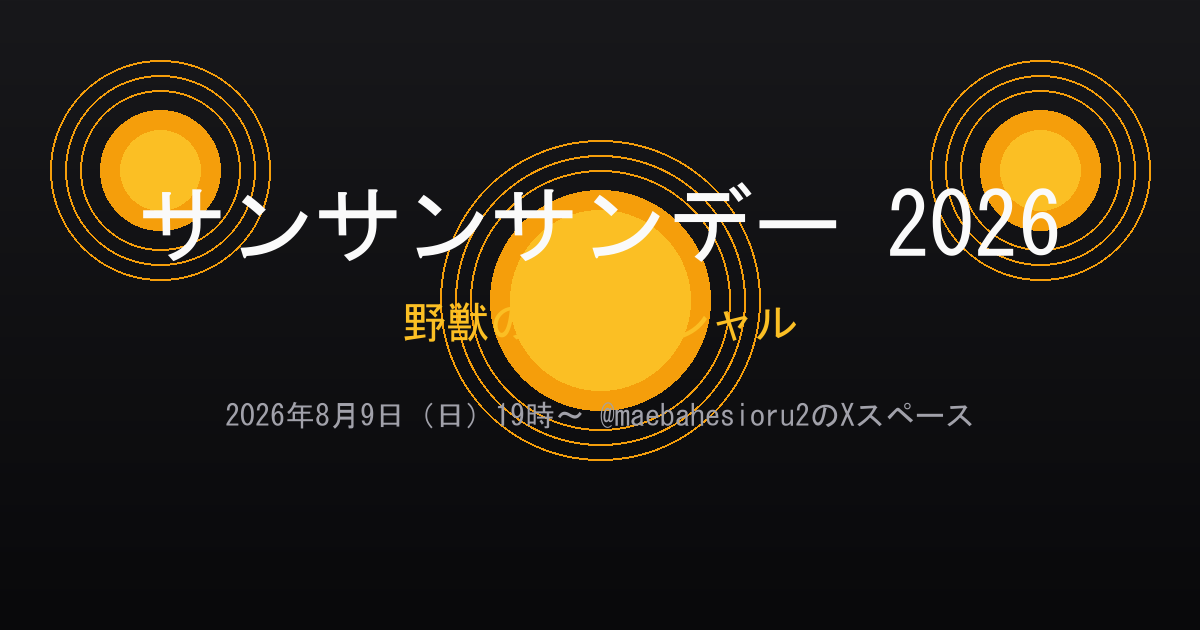
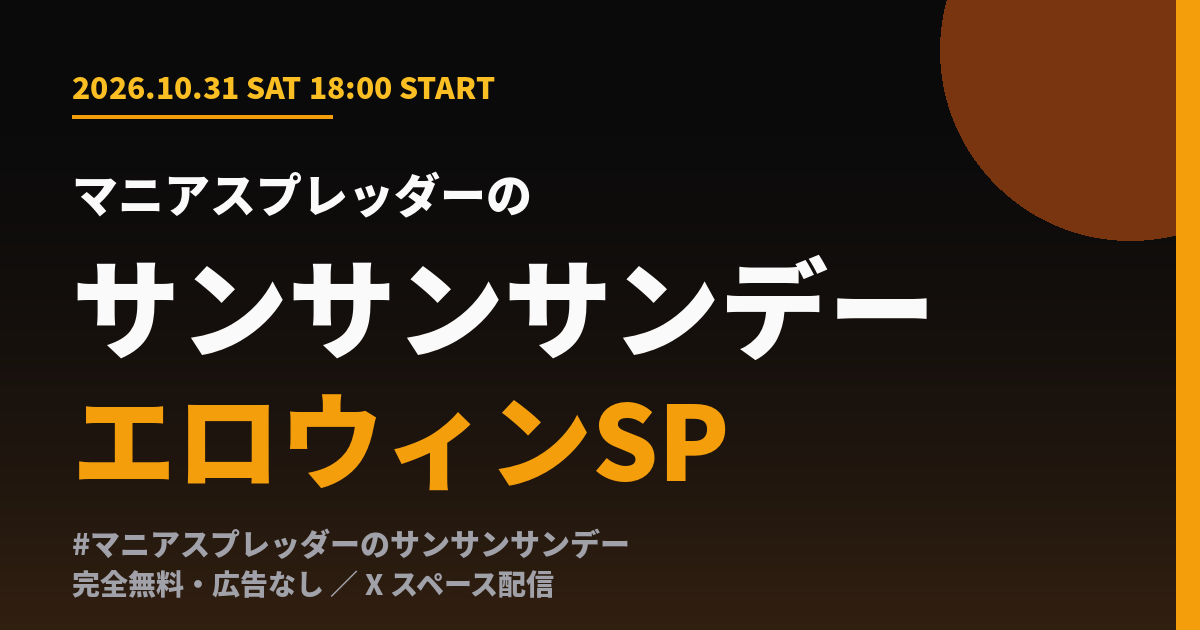
feat: ハロウィンSP(エロウィンSP)版へ更新 — 10/31(土)18:00・フォーム受付・許諾/無料明記

diff --git a/src/app/page.tsx b/src/app/page.tsx
@@ -1,5 +1,3 @@
-import fs from "fs";
-import path from "path";
 import Link from "next/link";
 
 const rules = [
@@ -46,22 +44,14 @@ const history = [
 ];
 
 export default function Home() {
-  // JSON-LD用に総再生時間を取得
-  let totalSec = 0;
-  try {
-    const songsJson = JSON.parse(
-      fs.readFileSync(path.join(process.cwd(), "public", "data", "songs.json"), "utf-8")
-    );
-    totalSec = songsJson.total_sec || 0;
-  } catch {}
-
-  const eventStart = new Date("2026-08-10T19:00:00+09:00");
-  const eventEnd = new Date(eventStart.getTime() + totalSec * 1000);
+  // 開催日時: 2026-10-31(土) 18:00 開始、翌日夜までの長丁場を想定
+  const eventStart = new Date("2026-10-31T18:00:00+09:00");
+  const eventEnd = new Date("2026-11-01T21:00:00+09:00");
 
   const eventJsonLd = {
     "@context": "https://schema.org",
     "@type": "MusicEvent",
-    name: "マニアスプレッダーのサンサンサンデー2026 野獣の日スペシャル",
+    name: "マニアスプレッダーのサンサンサンデー エロウィンSP",
     startDate: eventStart.toISOString(),
     endDate: eventEnd.toISOString(),
     eventAttendanceMode: "https://schema.org/OnlineEventAttendanceMode",
@@ -69,7 +59,7 @@ export default function Home() {
     location: {
       "@type": "VirtualLocation",
       url: "https://x.com/maebahesioru2",
-      name: "@maebahesioru2のXスペース",
+      name: "@okubahesioruのXスペース",
     },
     organizer: {
       "@type": "Person",
@@ -82,7 +72,7 @@ export default function Home() {
       url: "https://x.com/okubahesioru",
     },
     description:
-      "ヒカマー界隈の恒例イベント、音楽リクエストラジオ番組風配信。カオスな選曲とハプニング満載のオールナイトが今年も帰ってくる。",
+      "マニアスプレッダー氏の許諾を得て開催する、ヒカマー界隈の恒例イベント。音楽リクエストラジオ番組風配信で、カオスな選曲とハプニング満載のオールナイト。参加・視聴は完全無料、広告もありません。",
   };
 
   return (
@@ -93,16 +83,21 @@ export default function Home() {
       />
       {/* Hero */}
       <section className="relative overflow-hidden rounded-3xl border border-zinc-800 bg-gradient-to-b from-amber-950/40 to-zinc-950 p-8 sm:p-12">
-        <div className="absolute -right-10 -top-10 text-[10rem] opacity-10">🐗</div>
-        <p className="text-sm font-semibold tracking-widest text-amber-400">2026.8.9 野獣の日 SPECIAL</p>
+        <div className="absolute -right-10 -top-10 text-[10rem] opacity-10">🎃</div>
+        <p className="text-sm font-semibold tracking-widest text-amber-400">2026.10.31 エロウィン SP</p>
         <h1 className="mt-3 text-3xl font-black leading-tight sm:text-5xl">
           マニアスプレッダーの
           <br />
           サンサンサンデー<span className="text-amber-400">2026</span>
+          <br />
+          <span className="text-amber-400">エロウィンSP</span>
         </h1>
         <p className="mt-4 max-w-2xl text-sm leading-relaxed text-zinc-300 sm:text-base">
           ヒカマー界隈の恒例イベント、音楽リクエストラジオ番組風配信。カオスな選曲とハプニング満載の
-          オールナイトが今年も帰ってくる。リクエストはXのリプ欄かDMで受付中！
+          オールナイトが今年も帰ってくる。リクエストはXのリプライ、またはGoogleフォームで受付中！
+        </p>
+        <p className="mt-3 max-w-2xl text-xs leading-relaxed text-zinc-400">
+          マニアスプレッダー氏の許諾を得て開催しています。参加・視聴は完全無料、広告はありません。
         </p>
         <div className="mt-6 flex flex-wrap gap-3">
           <Link
@@ -124,12 +119,12 @@ export default function Home() {
             ⬇ ダウンロード
           </Link>
           <a
-            href="https://x.com/maebahesioru2"
+            href="https://x.com/okubahesioru"
             target="_blank"
             rel="noopener noreferrer"
             className="rounded-full border border-zinc-700 px-6 py-2.5 font-semibold text-zinc-200 transition hover:border-amber-500 hover:text-amber-400"
           >
-            @maebahesioru2
+            @okubahesioru
           </a>
         </div>
       </section>
@@ -141,9 +136,9 @@ export default function Home() {
         </h2>
         <div className="mt-4 grid gap-4 sm:grid-cols-3">
           {[
-            { label: "開催日時", value: "2026年8月10日（月）19時ちょうど開始予定", icon: "🕖" },
-            { label: "開催場所", value: "@maebahesioru2のXスペース", icon: "📍" },
-            { label: "リクエスト受付", value: "8月3日（月）22時 〜 8月10日（月）18時半", icon: "📨" },
+            { label: "開催日時", value: "2026年10月31日（土）18時ちょうど開始予定（翌日夜まで）", icon: "🕖" },
+            { label: "開催場所", value: "@okubahesioruのXスペース", icon: "📍" },
+            { label: "リクエスト受付", value: "10月21日（水）22時 〜 10月31日（土）17時", icon: "📨" },
           ].map((item) => (
             <div key={item.label} className="rounded-2xl border border-zinc-800 bg-zinc-900/50 p-5">
               <div className="text-2xl">{item.icon}</div>
@@ -154,9 +149,11 @@ export default function Home() {
         </div>
         <div className="mt-4 rounded-2xl border border-zinc-800 bg-zinc-900/50 p-5 text-sm leading-relaxed text-zinc-300">
           <p>
-            10日の<span className="font-bold text-zinc-100">8時から18時30分</span>までは、隼快_mania氏主催・
-            開發学習堂による<span className="font-bold text-zinc-100">「前期ヒカマー認定試験」</span>が予定されています。
-            そちらと併せての参加も可能です。
+            本イベントは<span className="font-bold text-zinc-100">マニアスプレッダー氏の許諾を得て開催</span>しています。
+            参加・視聴は<span className="font-bold text-zinc-100">完全無料</span>、広告もありません。
+          </p>
+          <p className="mt-2 text-zinc-400">
+            主催: ニコチンTV(@HikamerdesuTv) ／ 運営協力: 十字架(@maebahesioru2) ／ スペース配信: @okubahesioru
           </p>
         </div>
       </section>
@@ -203,7 +200,7 @@ export default function Home() {
               <h3 className="font-bold">リプライでリクエスト</h3>
             </div>
             <p className="mt-3 text-sm leading-relaxed text-zinc-300">
-              受付開始時刻の22時に投稿される受付用ポストのリプライ欄に、リクエストしたい楽曲のURLを貼ってください。
+              曲募集ポストのリプライ欄に、リクエストしたい楽曲のURLを貼ってください。
               引用ポストやリポストなどで拡散していただけるとありがたいです！
             </p>
             <p className="mt-3 text-xs text-zinc-500">受付完了の合図: 主催者から「いいね」が付く</p>
@@ -211,12 +208,19 @@ export default function Home() {
           <div className="rounded-2xl border border-zinc-800 bg-zinc-900/50 p-6">
             <div className="flex items-center gap-2">
               <span className="rounded-full bg-zinc-700 px-3 py-1 text-xs font-bold text-zinc-300">匿名</span>
-              <h3 className="font-bold">DMでリクエスト</h3>
+              <h3 className="font-bold">Googleフォームでリクエスト</h3>
             </div>
             <p className="mt-3 text-sm leading-relaxed text-zinc-300">
-              匿名でリクエストしたい場合は、@maebahesioru2のDMへ楽曲のURLを送ってください。放送上でリクエスト者名は公表されません。
+              匿名でリクエストしたい場合、または鍵アカウントでリプライできない場合は、Googleフォームから送信してください。放送上でリクエスト者名は公表されません。
             </p>
-            <p className="mt-3 text-xs text-zinc-500">受付完了の合図: 主催者から「👍」が届く</p>
+            <a
+              href="https://forms.gle/GWPTiyECSvSa4ZMT9"
+              target="_blank"
+              rel="noopener noreferrer"
+              className="mt-3 inline-block rounded-full bg-amber-500 px-5 py-2 text-sm font-bold text-zinc-950 transition hover:bg-amber-400"
+            >
+              フォームを開く
+            </a>
           </div>
         </div>
       </section>
@@ -280,7 +284,7 @@ export default function Home() {
             <li>• PythonおよびTwiforkを利用したスクリプトによって楽曲を再生します。</li>
             <li>• イベント運営上、スピーカーリクエストには対応しません。</li>
             <li>• 楽曲を再生するたびに、スペースのリプライ欄へ曲名、曲数カウント、リクエスト者名を投稿します。</li>
-            <li>• リクエスト者名には、Xアカウントの表示名を使用します。DMの匿名リクエストは公表しません。</li>
+            <li>• リクエスト者名には、Xアカウントの表示名を使用します。フォームからの匿名リクエストは公表しません。</li>
             <li>• スペースは録音機能をオンにして放送するため、終了後の見逃し視聴も可能です。</li>
           </ul>
         </div>
@@ -307,7 +311,7 @@ export default function Home() {
           <span className="text-amber-400">#⃣</span> ハッシュタグ
         </h2>
         <div className="mt-4 flex flex-wrap gap-3">
-          {["#マニアスプレッダーのサンサンサンデー", "#マニアスプレッダーのサンサンサンデー2026野獣の日スペシャル"].map(
+          {["#マニアスプレッダーのサンサンサンデー", "#マニアスプレッダーのサンサンサンデー2026エロウィンSP"].map(
             (tag) => (
               <a
                 key={tag}

diff --git a/src/app/layout.tsx b/src/app/layout.tsx
@@ -3,16 +3,16 @@ import Link from "next/link";
 import "./globals.css";
 
 const siteUrl =
-  process.env.SITE_URL || "https://sunsunsunday.hikamer.f5.si";
+  process.env.SITE_URL || "https://sunsunsunday.hikamers.app";
 
 export const metadata: Metadata = {
   metadataBase: new URL(siteUrl),
   title: {
-    default: "マニアスプレッダーのサンサンサンデー2026 野獣の日スペシャル",
+    default: "マニアスプレッダーのサンサンサンデー エロウィンSP",
     template: "%s | マニアスプレッダーのサンサンサンデー2026",
   },
   description:
-    "マニアスプレッダーのサンサンサンデー2026公式サイト。2026年8月10日（月）19時より@maebahesioru2のXスペースで開催。ヒカマー界隈の音MAD・VTuber楽曲・不謹慎系音声まで何でもありのオールナイト音楽リクエスト配信。",
+    "マニアスプレッダーのサンサンサンデー2026公式サイト。2026年10月31日（土）18時より@okubahesioruのXスペースで開催。ヒカマー界隈の音MAD・VTuber楽曲・不謹慎系音声まで何でもありのオールナイト音楽リクエスト配信。",
   keywords: [
     "サンサンサンデー",
     "マニアスプレッダー",
@@ -21,7 +21,8 @@ export const metadata: Metadata = {
     "音MAD",
     "Xスペース",
     "音楽リクエスト",
-    "野獣の日",
+    "ハロウィン",
+    "エロウィン",
     "maebahesioru2",
     "オールナイト",
   ],
@@ -44,9 +45,9 @@ export const metadata: Metadata = {
     locale: "ja_JP",
     url: siteUrl,
     siteName: "マニアスプレッダーのサンサンサンデー2026",
-    title: "マニアスプレッダーのサンサンサンデー2026 野獣の日スペシャル",
+    title: "マニアスプレッダーのサンサンサンデー エロウィンSP",
     description:
-      "2026年8月10日（月）19時より@maebahesioru2のXスペースで開催！ヒカマー界隈のオールナイト音楽リクエスト配信。",
+      "2026年10月31日（土）18時より@okubahesioruのXスペースで開催！ヒカマー界隈のオールナイト音楽リクエスト配信。",
     images: [
       {
         url: "/og.png",
@@ -60,9 +61,9 @@ export const metadata: Metadata = {
     card: "summary_large_image",
     site: "@maebahesioru2",
     creator: "@maebahesioru2",
-    title: "マニアスプレッダーのサンサンサンデー2026 野獣の日スペシャル",
+    title: "マニアスプレッダーのサンサンサンデー エロウィンSP",
     description:
-      "2026年8月10日（月）19時より@maebahesioru2のXスペースで開催！リクエスト受付中！",
+      "2026年10月31日（土）18時より@okubahesioruのXスペースで開催！リクエスト受付中！",
     images: ["/og.png"],
   },
   robots: {
@@ -104,17 +105,18 @@ export default function RootLayout({
             __html: JSON.stringify({
               "@context": "https://schema.org",
               "@type": "MusicEvent",
-              name: "マニアスプレッダーのサンサンサンデー2026 野獣の日スペシャル",
-              startDate: "2026-08-10T19:00:00+09:00",
-              endDate: "2026-08-11T23:00:00+09:00",
+              name: "マニアスプレッダーのサンサンサンデー エロウィンSP",
+              startDate: "2026-10-31T18:00:00+09:00",
+              endDate: "2026-11-01T21:00:00+09:00",
               eventAttendanceMode: "https://schema.org/OnlineEventAttendanceMode",
               eventStatus: "https://schema.org/EventScheduled",
               location: {
                 "@type": "VirtualLocation",
-                url: "https://x.com/i/spaces/1rGmqpqpjngGy",
+                url: "https://x.com/okubahesioru",
+                name: "@okubahesioruのXスペース",
               },
               description:
-                "マニアスプレッダーのサンサンサンデー2026 野獣の日スペシャル。@maebahesioru2のXスペースで開催するオールナイト音楽リクエスト配信。ヒカマー界隈の音MAD・VTuber楽曲・不謹慎系音声まで何でもあり。",
+                "マニアスプレッダーのサンサンサンデー エロウィンSP。@okubahesioruのXスペースで開催するオールナイト音楽リクエスト配信。ヒカマー界隈の音MAD・VTuber楽曲・不謹慎系音声まで何でもあり。",
               organizer: {
                 "@type": "Organization",
                 name: "マニアスプレッダーのサンサンサンデー実行委員会",
@@ -132,7 +134,7 @@ export default function RootLayout({
               "@context": "https://schema.org",
               "@type": "WebSite",
               name: "マニアスプレッダーのサンサンサンデー2026",
-              alternateName: "サンサンサンデー2026 野獣の日スペシャル",
+              alternateName: "サンサンサンデー エロウィンSP",
               url: siteUrl,
               inLanguage: "ja",
             }),
@@ -141,10 +143,10 @@ export default function RootLayout({
         <header className="sticky top-0 z-50 border-b border-zinc-800 bg-zinc-950/80 backdrop-blur">
           <div className="mx-auto flex h-14 max-w-5xl items-center justify-between px-4">
             <Link href="/" className="flex items-center gap-2 font-bold tracking-tight">
-              <span className="text-xl">🐗</span>
+              <span className="text-xl">🎃</span>
               <span className="text-sm sm:text-base">
                 サンサンサンデー<span className="text-amber-400">2026</span>
-                <span className="ml-1 hidden text-xs text-zinc-400 sm:inline">野獣の日スペシャル</span>
+                <span className="ml-1 hidden text-xs text-zinc-400 sm:inline">エロウィンSP</span>
               </span>
             </Link>
             <nav className="flex items-center gap-2 text-sm sm:gap-4">
@@ -174,8 +176,8 @@ export default function RootLayout({
         </header>
         {children}
         <footer className="border-t border-zinc-800 py-8 text-center text-xs text-zinc-500">
-          <p>マニアスプレッダーのサンサンサンデー2026 野獣の日スペシャル</p>
-          <p className="mt-1">主催: @maebahesioru2 ／ 音楽再生: @okubahesioru</p>
+          <p>マニアスプレッダーのサンサンサンデー エロウィンSP</p>
+          <p className="mt-1">主催: ニコチンTV(@HikamerdesuTv) ／ 運営協力: 十字架(@maebahesioru2) ／ スペース配信: @okubahesioru</p>
         </footer>
       </body>
     </html>

diff --git a/src/app/timetable/page.tsx b/src/app/timetable/page.tsx
@@ -10,7 +10,7 @@ export const dynamic = "force-dynamic";
 export const metadata: Metadata = {
   title: "番組表",
   description:
-    "マニアスプレッダーのサンサンサンデー2026 野獣の日スペシャルの全曲番組表。リクエスト曲の放送予定時刻・リクエスト者・再生順を確認できます。",
+    "マニアスプレッダーのサンサンサンデー エロウィンSPの全曲番組表。リクエスト曲の放送予定時刻・リクエスト者・再生順を確認できます。",
 };
 
 type Song = {
@@ -120,8 +120,8 @@ function formatDateTime(date: Date): string {
   return `${jst.getMonth() + 1}/${jst.getDate()}（${week}）${formatTime(date)}`;
 }
 
-// 放送開始時刻（19時ちょうど開始の場合）
-const START_DATE = new Date("2026-08-10T19:00:00+09:00");
+// 放送開始時刻（18時ちょうど開始の場合）
+const START_DATE = new Date("2026-10-31T18:00:00+09:00");
 
 export default function TimetablePage() {
   const dataDir = path.join(process.cwd(), "public", "data");
@@ -151,7 +151,7 @@ export default function TimetablePage() {
   const decided = order.length > 0;
   const playedSec = order.reduce((acc, s) => acc + (s.duration_sec || 0), 0);
 
-  // タイムテーブル: 19時ちょうど開始として各曲の開始予定時刻を計算
+  // タイムテーブル: 18時ちょうど開始として各曲の開始予定時刻を計算
   let cumulative = 0;
   const schedule: ScheduleItem[] = order.map((song, idx) => {
     const startMs = START_DATE.getTime() + cumulative * 1000;
@@ -182,7 +182,7 @@ export default function TimetablePage() {
           __html: JSON.stringify({
             "@context": "https://schema.org",
             "@type": "MusicPlaylist",
-            name: "マニアスプレッダーのサンサンサンデー2026 野獣の日スペシャル 番組表",
+            name: "マニアスプレッダーのサンサンサンデー エロウィンSP 番組表",
             numTracks: order.length,
             track: order.map((s) => ({
               "@type": "MusicRecording",
@@ -207,13 +207,13 @@ export default function TimetablePage() {
                 "@type": "ListItem",
                 position: 1,
                 name: "ホーム",
-                item: "https://sunsunsunday.hikamer.f5.si",
+                item: "https://sunsunsunday.hikamers.app",
               },
               {
                 "@type": "ListItem",
                 position: 2,
                 name: "番組表",
-                item: "https://sunsunsunday.hikamer.f5.si/timetable",
+                item: "https://sunsunsunday.hikamers.app/timetable",
               },
             ],
           }),

diff --git a/src/app/download/page.tsx b/src/app/download/page.tsx
@@ -9,7 +9,7 @@ export const metadata: Metadata = {
 const FILES = [
   {
     file: "part1.m4a",
-    title: "マニアスプレッダーのサンサンサンデー2026 野獣の日SP",
+    title: "マニアスプレッダーのサンサンサンデー エロウィンSP",
     size: "281MB",
     desc: "本放送 Part1",
   },

diff --git a/src/app/sitemap.ts b/src/app/sitemap.ts
@@ -1,7 +1,7 @@
 import type { MetadataRoute } from "next";
 
 const siteUrl =
-  process.env.SITE_URL || "https://sunsunsunday.hikamer.f5.si";
+  process.env.SITE_URL || "https://sunsunsunday.hikamers.app";
 
 export default function sitemap(): MetadataRoute.Sitemap {
   return [

diff --git a/src/app/robots.ts b/src/app/robots.ts
@@ -1,7 +1,7 @@
 import type { MetadataRoute } from "next";
 
 const siteUrl =
-  process.env.SITE_URL || "https://sunsunsunday.hikamer.f5.si";
+  process.env.SITE_URL || "https://sunsunsunday.hikamers.app";
 
 export default function robots(): MetadataRoute.Robots {
   return {
